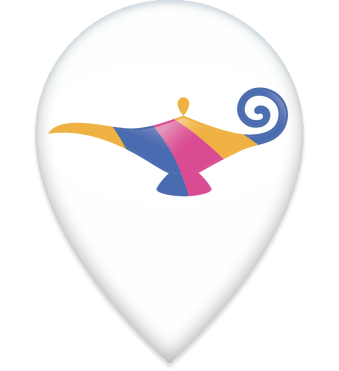
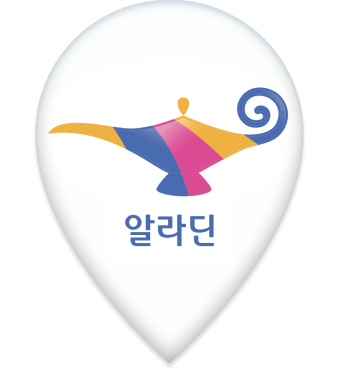
Design: 서점 아이콘 교체

Changed region(s): [[0.354, 0.5633, 0.649, 0.6819]]

diff --git a/src/App.js b/src/App.js
@@ -28,7 +28,7 @@ function App() {
                 "longitude": 126.9729
             },
             {
-                "bookstore":"교보문고",
+                "bookstore":"알라딘",
                 "branch":"강남",
                 "stock":2,
                 "latitude": 37.6656, 
@@ -75,7 +75,7 @@ function App() {
               }
 
             const marker = new naver.maps.Marker({
-                position: new window.naver.maps.LatLng(loc.latitude, loc.longitude),
+                position: new naver.maps.LatLng(loc.latitude, loc.longitude),
                 map: map,
                 title: loc.stock.toString(),
                 icon: {
